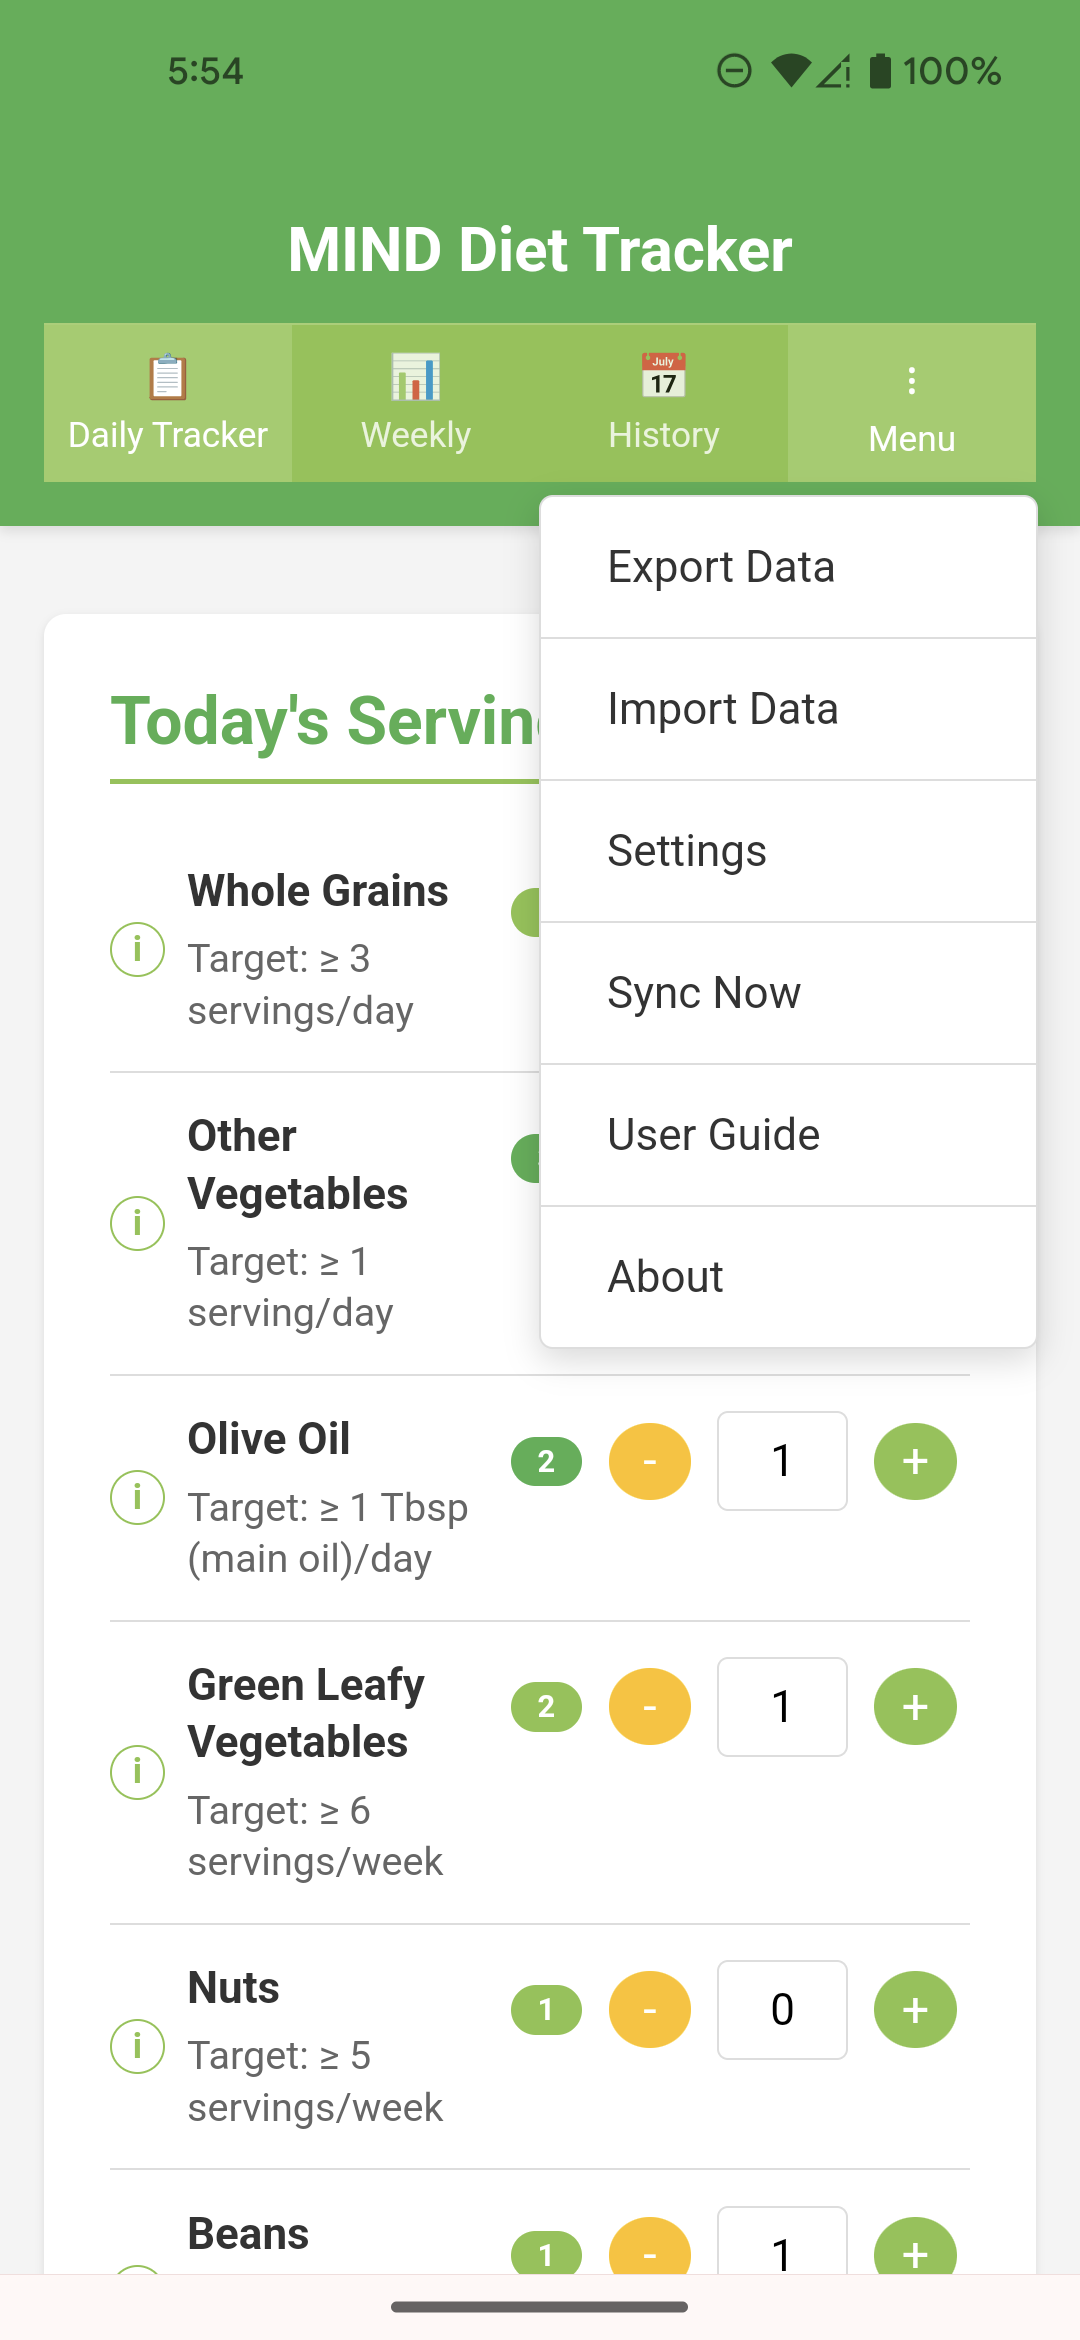
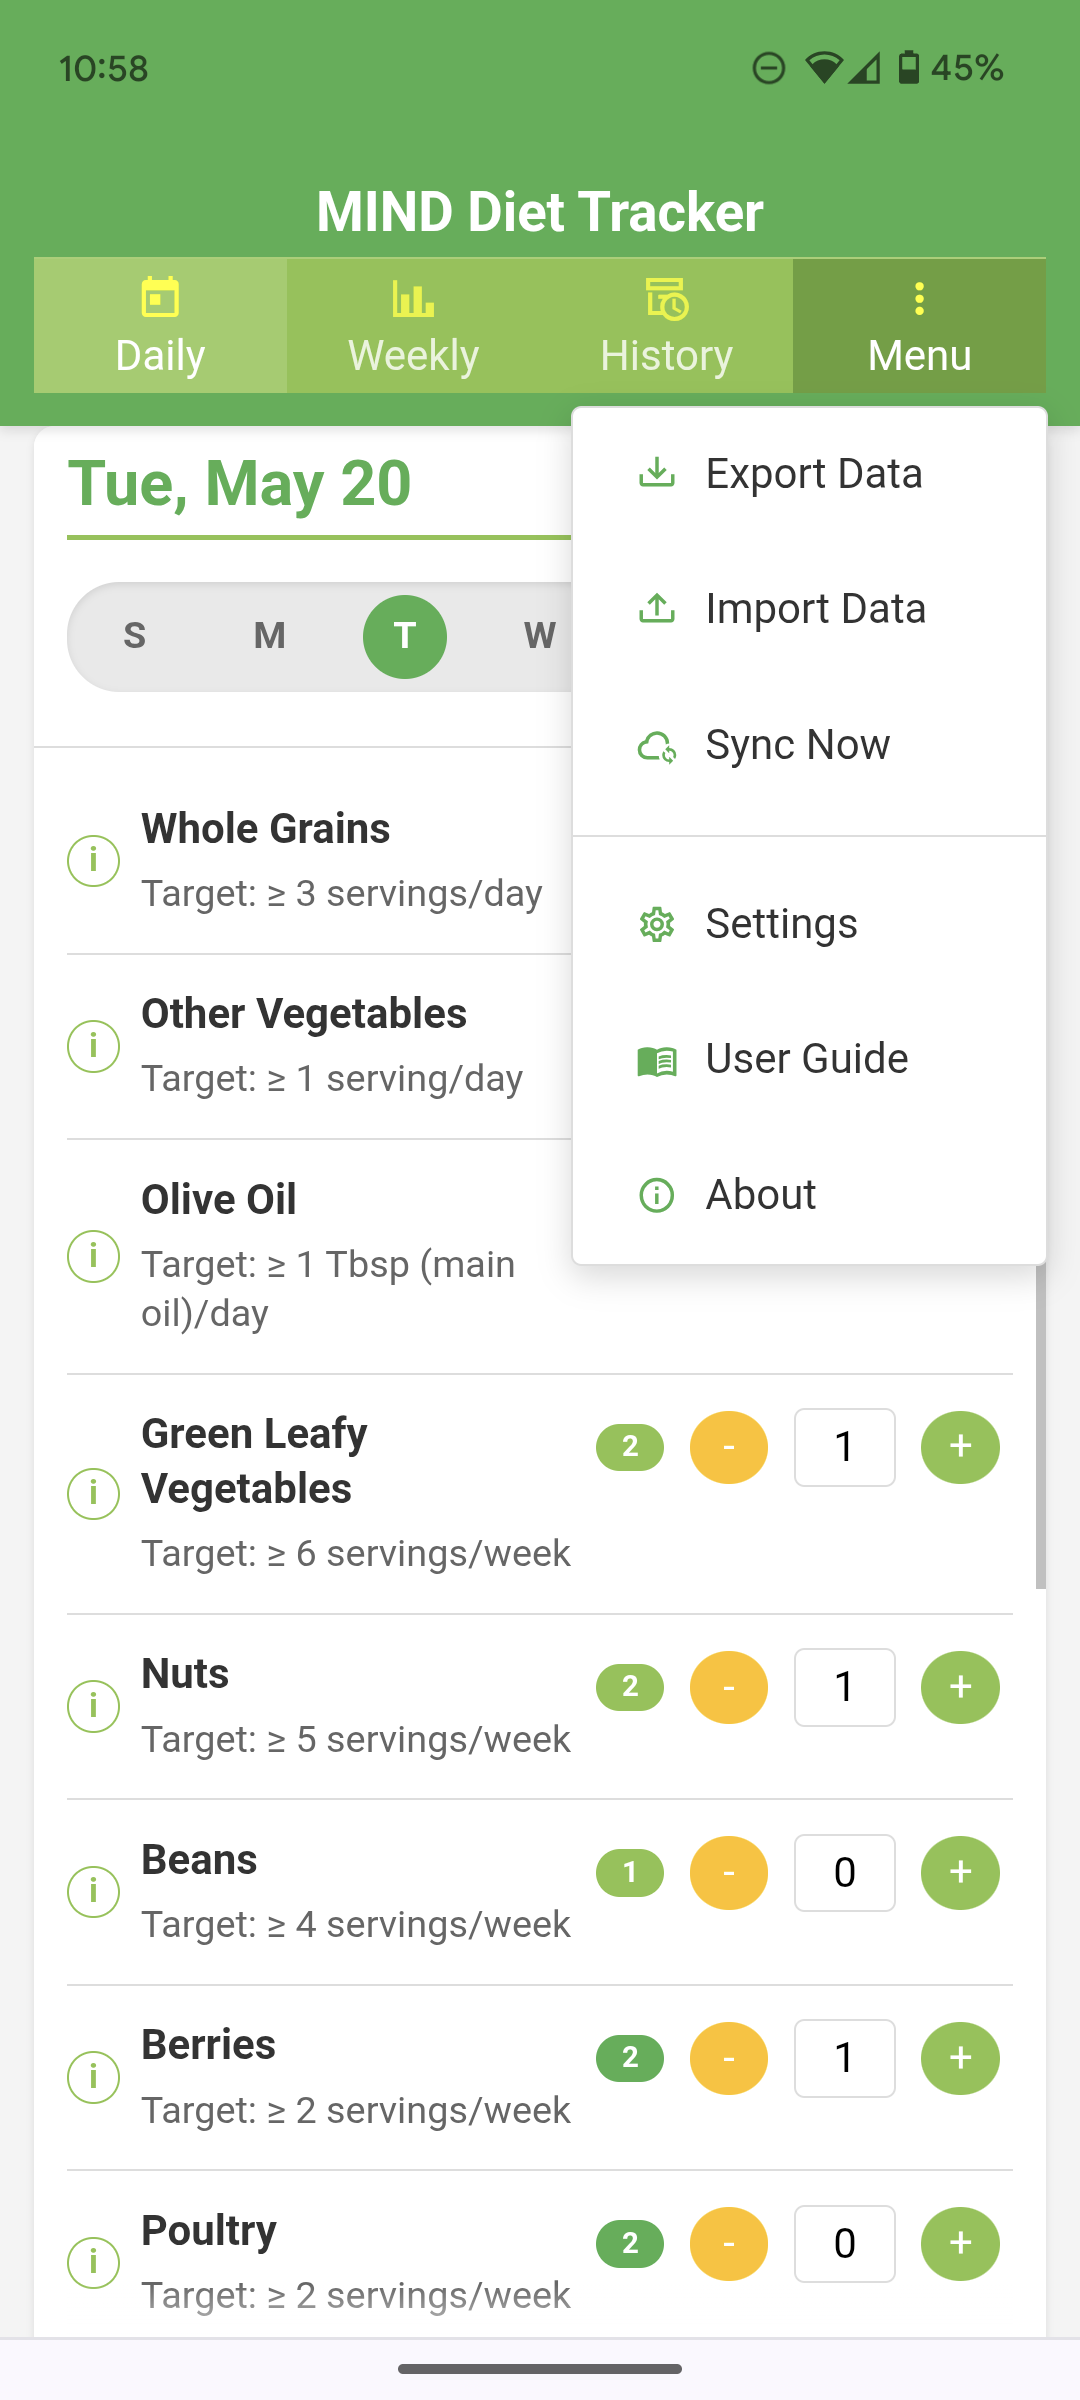
Updates for daily tracker feature

diff --git a/index.html b/index.html
@@ -188,6 +188,7 @@
     <li>✓ Daily tracking of food groups</li>
     <li>✓ Weekly progress summaries</li>
     <li>✓ Historical data review</li>
+    <li>✓ Edit daily history</li>
     <li>✓ Sync to cloud</li>
     <li>✓ Export/import your data</li>
     <li>✓ Install as a mobile app</li>
@@ -223,19 +224,23 @@
   <div class="carousel-container">
     <div class="carousel">
       <div>
-        <img src="https://github.com/NateEaton/mind-pwa-pages/raw/main/screenshots/daily-tracker-view.png" alt="Daily tracker view" />
+        <img src="https://github.com/NateEaton/mind-pwa-pages/raw/main/screenshots/daily-tracker.png" alt="Daily tracker view" />
         <div class="caption">Daily Tracker</div>
       </div>
       <div>
-        <img src="https://github.com/NateEaton/mind-pwa-pages/raw/main/screenshots/weekly-summary-view.png" alt="Weekly summary view" />
+        <img src="https://github.com/NateEaton/mind-pwa-pages/raw/main/screenshots/weekly-summary.png" alt="Weekly summary view" />
         <div class="caption">Weekly Summary</div>
       </div>
       <div>
-        <img src="https://github.com/NateEaton/mind-pwa-pages/raw/main/screenshots/weekly-history-view.png" alt="Weekly history view" />
+        <img src="https://github.com/NateEaton/mind-pwa-pages/raw/main/screenshots/history-view.png" alt="Weekly history view" />
         <div class="caption">History View</div>
       </div>
       <div>
-        <img src="https://github.com/NateEaton/mind-pwa-pages/raw/main/screenshots/food-info-dialog.png" alt="Food info dialog" />
+        <img src="https://github.com/NateEaton/mind-pwa-pages/raw/main/screenshots/edit-totals-modal.png" alt="Edit history dialog" />
+        <div class="caption">History View</div>
+      </div>
+      <div>
+        <img src="https://github.com/NateEaton/mind-pwa-pages/raw/main/screenshots/food-info-modal.png" alt="Food info dialog" />
         <div class="caption">Food Info</div>
       </div>
       <div>
@@ -243,7 +248,7 @@
         <div class="caption">App Menu</div>
       </div>
       <div>
-        <img src="https://github.com/NateEaton/mind-pwa-pages/raw/main/screenshots/settings-dialog.png" alt="Settings dialog" />
+        <img src="https://github.com/NateEaton/mind-pwa-pages/raw/main/screenshots/settings-modal.png" alt="Settings dialog" />
         <div class="caption">Settings</div>
       </div>
     </div>
